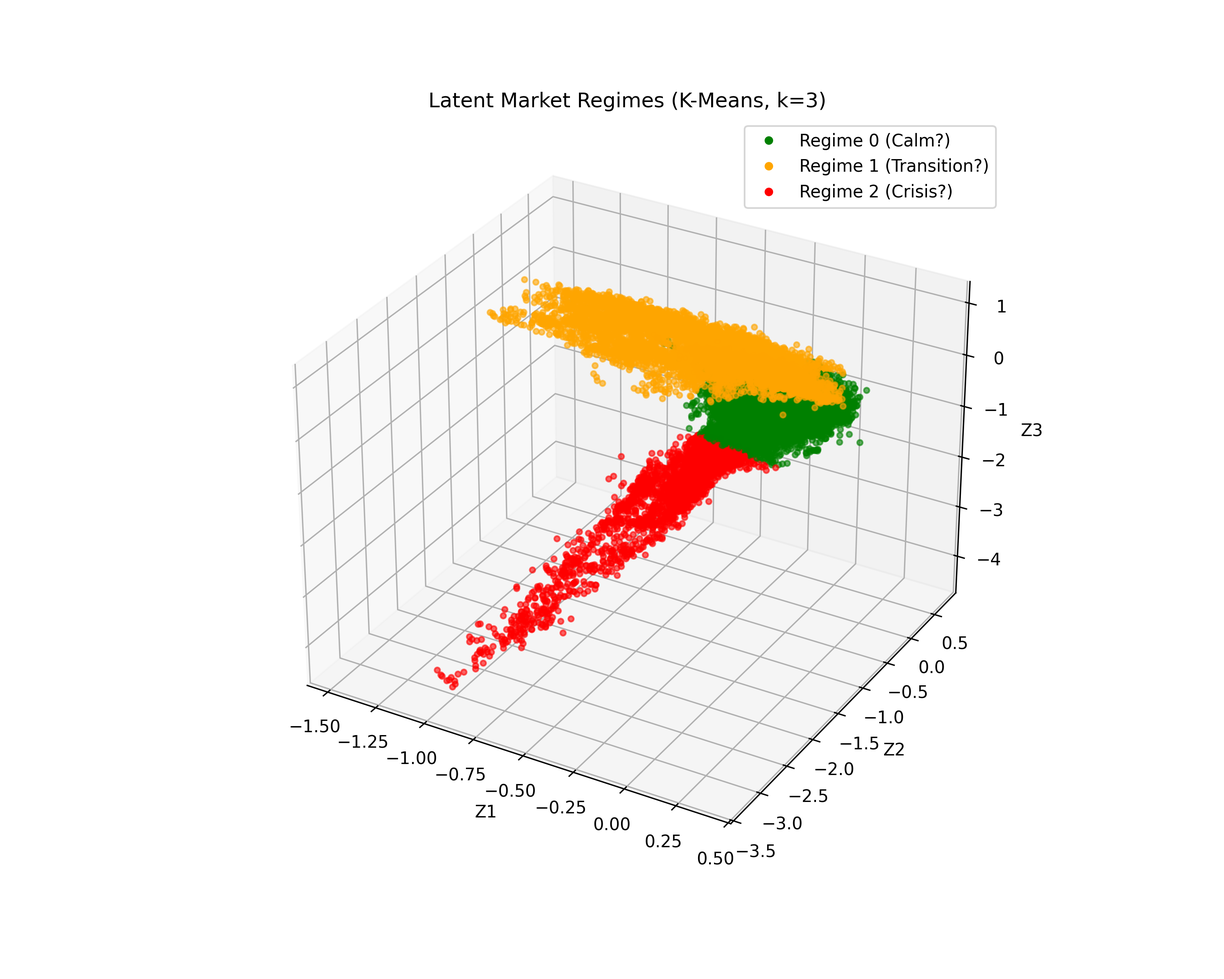
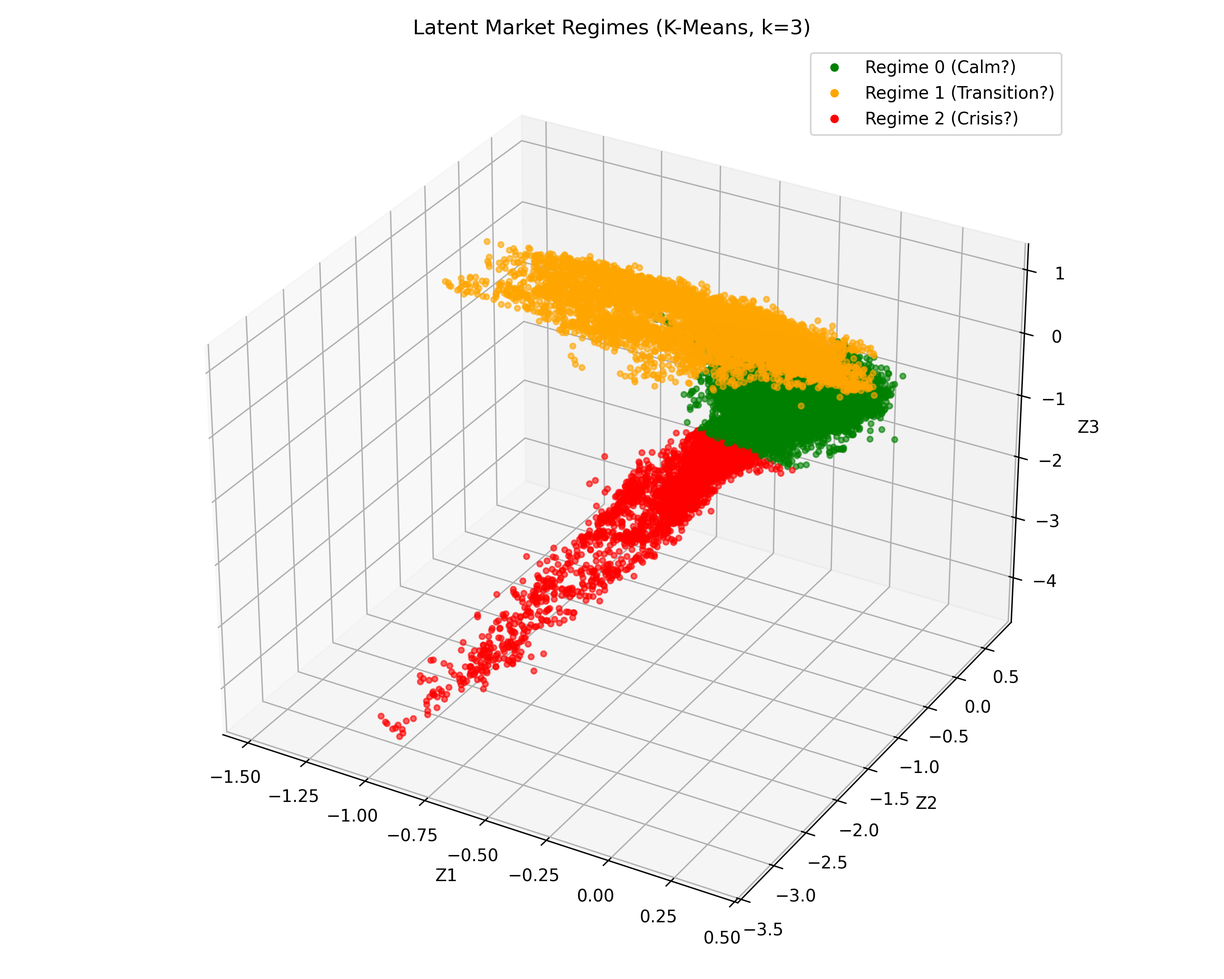
251130 update visualization

diff --git a/writeup/final.tex b/writeup/final.tex
@@ -67,57 +67,62 @@
 
 \section{Introduction}
 
-\subsection{Motivation: The Market as an Open System}
-Financial markets are fundamentally ``Open Systems'' characterized by non-stationary dynamics, evolving structural rules, and exogenous shocks. In contrast, the foundational theories of quantitative finance—most notably the Black-Scholes-Merton (BSM) framework and its stochastic volatility extensions like Heston—rely on a ``Closed System'' assumption. These models posit that the governing laws of the market are fixed stochastic differential equations (SDEs) where only the state variables (e.g., asset price \(S_t\), volatility \(v_t\)) evolve over time.
+\subsection{The Inverse Problem of Market State Estimation}
+Quantitative finance is fundamentally an \textit{inverse problem} \citep{bouchouev1997}: given a set of observed prices \(\mathcal{Y}\), we seek to infer the unobservable state parameters \(\mathcal{Z}\) (e.g., volatility, correlation, drift) that generated them. Traditional parametric models, such as Black-Scholes-Merton (BSM) or Heston, assume a fixed functional form \(\mathcal{F}\) (a Stochastic Partial Differential Equation, SPDE) and solve for the parameters \(\theta\) that minimize the pricing error: \(\theta^* = \text{argmin}_\theta \norm{\mathcal{F}(\theta) - \mathcal{Y}}\).
 
-This ontological mismatch becomes critically apparent during ``Regime Shifts''—periods where the underlying parameters, or indeed the very mechanism of the market, change abruptly. The 2008 Financial Crisis and the 2020 COVID-19 crash are paradigmatic examples where the ``rules of the game'' shifted, rendering static parametric models obsolete. Practitioners attempt to mitigate this by ``re-calibrating'' model parameters daily, effectively treating constant parameters as time-varying variables. However, this practice is theoretically inconsistent and practically reactive; a re-calibrated model explains yesterday's market perfectly but offers little predictive power for tomorrow's regime shift.
+However, this approach suffers from a critical limitation: it assumes the \emph{physics} of the market \(\mathcal{F}\) is static and known. In reality, financial markets are \emph{Open Systems} where the governing laws themselves evolve—a phenomenon known as Regime Switching \citep{hamilton1989}. As argued by the Adaptive Markets Hypothesis \citep{lo2004adaptive}, market dynamics are evolutionary, driven by the interactions of adaptive agents. During a crisis, the market does not merely experience ``high volatility'' (a parameter change); the correlations and feedback loops (the equations themselves) fundamentally alter. We frame this as a \textbf{State Estimation Problem} on a latent manifold: can we learn a mapping that projects high-dimensional, noisy market observables onto a low-dimensional \emph{Regime Manifold} \(\mathcal{M}\), where the coordinates correspond to the true, evolving parameters of the underlying SPDE?
 
-\subsection{The Neural Operator Hypothesis}
-We propose a paradigm shift from learning the \textit{solution} to a fixed equation to learning the \textit{operator} that maps market regimes to price surfaces. \textbf{Neural Operators} \citep{shen2025neuralsdesunifiedapproach}, originally developed for solving families of partial differential equations (PDEs) in physics, offer a powerful framework for this task. Instead of optimizing parameters \(\theta\) for a single market state, a Neural Operator approximates the mapping \(\mathcal{G}: \mathcal{A} \to \mathcal{U}\), where \(\mathcal{A}\) is the infinite-dimensional space of market regimes (functions of macro-financial conditions) and \(\mathcal{U}\) is the space of option price surfaces.
+\subsection{Why Neural Operators?}
+Standard deep learning approaches (MLPs, LSTMs) map finite-dimensional vectors to vectors. However, market states are better conceptualized as \textit{functions}—continuous trajectories of macro-financial variables over time. Similarly, the output (an option price surface) is a function of strike and maturity.
+\textbf{Neural Operators} \citep{shen2025neuralsdesunifiedapproach} are designed specifically for this \textit{function-to-function} mapping. Unlike standard networks, they learn a discretization-invariant operator \(\mathcal{G}: \mathcal{A} \to \mathcal{U}\). This is theoretically crucial for two reasons:
+\begin{enumerate}
+    \item \textbf{Resolution Invariance}: The model should yield consistent inferences whether we sample data daily, hourly, or by the minute.
+    \item \textbf{Infinite-Dimensionality}: The space of possible market regimes is infinite-dimensional. Neural Operators approximate the operator on the function space, not just the specific training samples.
+\end{enumerate}
 
-By learning this operator, we aim to capture the \textit{continuum} of market dynamics. We hypothesize that the high-dimensional, noisy state of the market collapses onto a low-dimensional \textbf{Latent Manifold} \(\mathcal{M}\). On this manifold, distinct market regimes (e.g., ``Low Volatility Bull'', ``High Volatility Crash'') occupy topologically distinct regions, and the transitions between them—``Phase Transitions''—can be modeled as dynamical flows.
-
-\subsection{Contributions}
-This work makes three primary contributions to the field of Physics-Informed Finance. First, we demonstrate that a Neural Operator can recover the topology of the ``Market Regime Manifold'' purely from observational data, achieving a regime separation ratio of \textbf{4.31x} without explicit supervision. Second, we introduce a hybrid architecture that embeds financial constraints (No-Arbitrage conditions) directly into the loss function, ensuring that the learned manifold respects the fundamental laws of pricing. Finally, we propose the ``Neural Surfer,'' a novel trading strategy that exploits the ``Latent Velocity'' \(\norm{\diff{Z}{t}}\) on the learned manifold to detect market instability. Backtests show this physics-informed signal anticipates crises more effectively than traditional VIX thresholds.
-
-\section{Related Work}
-
-\subsection{Stochastic Volatility and Regime Switching}
-The inability of the constant-volatility Black-Scholes model to capture the "volatility smile" led to the development of Stochastic Volatility (SV) models. The \textbf{Heston Model} \citep{heston1993} introduces a mean-reverting stochastic process for variance, capturing the leverage effect and smile dynamics. However, Heston assumes mean-reversion to a \textit{constant} long-run variance \(\theta\). To address non-stationarity, \textbf{Regime-Switching Models} (e.g., Markov-Switching GARCH) allow parameters to jump between discrete states. While an improvement, these models suffer from the "curse of discreteness"—they model regimes as binary or categorical states, whereas real markets often exhibit continuous, fluid transitions.
-
-\subsection{Deep Learning in Quantitative Finance}
-Deep learning has been extensively applied to option pricing, primarily as a "Universal Approximator" for calibration. \textbf{Neural SDEs} \citep{cohen2024neural} and \textbf{Physics-Informed Neural Networks (PINNs)} \citep{raissi2019physics} have been used to solve the Black-Scholes PDE more efficiently. However, most existing approaches focus on fitting the \textit{pricing function} \(P(S, K, T)\) for a single regime. Our work differs by focusing on the \textit{inverse problem}: mapping the history of market states to the manifold of pricing functions.
-
-\subsection{Manifold Learning and Neural Operators}
-Manifold learning techniques (e.g., LLE, Isomap) assume that high-dimensional data lies on a low-dimensional embedding. In finance, this has been used to visualize market states \citep{talmon2013}. \textbf{Neural Operators} (e.g., Fourier Neural Operator, DeepONet) extend this by learning mappings between function spaces. By viewing the "Market Regime" as an input function (a trajectory of macro variables) and the "Price Surface" as an output function, we leverage the discretization-invariant properties of Neural Operators to learn a robust, resolution-independent representation of market dynamics. This is particularly crucial for SPDEs, where the solution operator must generalize across different mesh resolutions \citep{salvi2022neuralstochasticpdesresolutioninvariant}.
+\subsection{The Heston SPDE as a Canonical Testbed}
+To rigorously validate this framework, we cannot rely solely on empirical data, where the \emph{ground truth} regime is unknown. We instead employ the Heston Stochastic Volatility Model \citep{heston1993} as a \emph{Canonical Physics} testbed. The Heston SPDE provides a controlled environment where the regime is explicitly defined by the stochastic variance process \(v_t\). If our Neural Operator can recover the topology of the Heston parameter space purely from option prices—without being told the equations—it serves as a proof-of-principle that the method can extract \emph{financial physics} from data.
 
 \section{Theoretical Framework}
 
 \subsection{The Market Manifold Hypothesis}
-We posit that while the observable state of the market is high-dimensional (consisting of thousands of asset prices, volumes, and order flows), the \textit{regime} governing these dynamics evolves on a low-dimensional manifold \(\mathcal{M}\) embedded in the high-dimensional feature space \(\mathcal{X}\). Formally, let \(x_t \in \bb{R}^N\) be the vector of market observables at time \(t\). We assume there exists a smooth mapping \(\Phi: \mathcal{M} \to \bb{R}^N\) such that \(x_t = \Phi(z_t) + \epsilon_t\), where \(z_t \in \mathcal{M}\) is the latent state and \(\epsilon_t\) is idiosyncratic noise.
-
-The geometry of \(\mathcal{M}\) encodes the structural rules of the market. Stable regimes correspond to basins of attraction on \(\mathcal{M}\), while crises correspond to rapid transitions or "saddle points" between these basins. Our goal is to learn the inverse mapping \(\Phi^{-1}\) (the Encoder) and the forward mapping to option prices (the Decoder).
-
-\subsection{The Inverse Problem of Option Pricing}
-Traditionally, option pricing is viewed as a forward problem: given parameters \(\theta\) (e.g., volatility \(\sigma\)), compute price \(C(S, K, T)\). We frame this as an \textit{inverse problem}. Given a history of market states \(\mathbf{X}_{t-h:t}\), we seek to infer the latent regime \(z_t\) and map it to the current price surface \(\mathbf{Y}_t\).
+We posit that the observable market state \(x_t \in \bb{R}^N\) (prices, volumes) is a noisy projection of a latent state \(z_t\) evolving on a low-dimensional Riemannian manifold \(\mathcal{M}\).
 \[
-    \mathbf{X}_{t-h:t} \xrightarrow{E} z_t \xrightarrow{D} \mathbf{Y}_t
+    x_t = \Phi(z_t) + \epsilon_t, \quad z_t \in \mathcal{M} \subset \bb{R}^d
 \]
-where \(E\) is the Encoder approximating the inverse map, and \(D\) is the Decoder approximating the pricing operator.
+The Regime Classification problem is thus equivalent to learning the coordinate chart of \(\mathcal{M}\). Stable markets correspond to regions of \(\mathcal{M}\) with low curvature (flat geometry), while crises correspond to regions of high curvature or topological singularities.
 
-\subsection{Mathematical Formulation}
-Let \(\mathcal{F}: \mathcal{Z} \to \mathcal{Y}\) be the forward pricing operator mapping latent regimes \(z \in \mathcal{Z}\) to option price surfaces \(y \in \mathcal{Y}\). The inverse problem is to find \(z\) such that \(\mathcal{F}(z) = y_{\text{market}}\). This problem is typically \textbf{ill-posed} in the sense of Hadamard: solutions may not exist, be unique, or depend continuously on the data.
+\subsection{Mathematical Formulation of the Inverse Problem}
+Let \(\mathcal{F}: \mathcal{Z} \to \mathcal{Y}\) be the forward pricing operator mapping latent regimes \(z \in \mathcal{Z}\) to option price surfaces \(y \in \mathcal{Y}\). The inverse problem is to find \(z\) such that \(\mathcal{F}(z) = y_{\text{market}}\). This problem is typically \textbf{ill-posed} in the sense of Hadamard.
 
-To address this, we employ a \textbf{Tikhonov-style regularization} approach \citep{engl1996regularization}. We seek an approximation \(z_\theta = E_\theta(x)\) that minimizes a regularized functional:
+To address this, we employ a \textbf{Tikhonov-style regularization} approach \citep{engl1996regularization}. We seek an approximation \(z_\theta = E_\theta(x)\) that minimizes:
 \[
     J(\theta) = \norm{\mathcal{F}(E_\theta(x)) - y_{\text{market}}}_{\mathcal{Y}}^2 + \lambda \mathcal{R}(E_\theta(x))
 \]
-where the first term ensures data fidelity (reconstruction accuracy) and the second term \(\mathcal{R}\) imposes physical constraints (e.g., smoothness or no-arbitrage) on the solution. Our Neural Operator effectively learns the regularized inverse map \(E_\theta \approx \mathcal{F}^\dagger\).
+where \(\mathcal{R}\) imposes physical constraints (e.g., No-Arbitrage). Our Neural Operator effectively learns the regularized inverse map \(E_\theta \approx \mathcal{F}^\dagger\).
 
 \section{Methodology}
 
 \subsection{Data Generation: The Heston World}
-To overcome the scarcity of high-fidelity historical option data, we employ a "Physics-Informed" data generation strategy. We use real historical market data (S\&P 500, Nasdaq 100, etc.) to drive a Heston Stochastic Volatility model, creating a semi-synthetic dataset where the "ground truth" physics are known but the driving data is empirical.
+To rigorously validate our Neural Operator framework, we require a dataset that combines the complexity of real-world market drivers with the mathematical tractability of a known ground truth. We construct a semi-synthetic \emph{Heston World} dataset by driving a stochastic volatility simulation with empirical market data.
+
+\subsubsection{Empirical Data Sourcing}
+We source daily historical market data from \textbf{Yahoo Finance} via the \texttt{yfinance} API, covering the period from January 1, 2006, to January 1, 2025. This 19-year window captures multiple distinct market regimes, including the 2008 Global Financial Crisis, the 2010 Flash Crash, the prolonged Bull Market of the 2010s, the 2020 COVID-19 Crash, and the subsequent recovery and inflation period.
+
+The dataset comprises two primary components:
+\begin{itemize}
+    \item \textbf{Equity Indices}: We aggregate price and volume data for four major US equity indices to ensure a representative sample of market behavior: the \textbf{S\&P 500} (\texttt{\^{}GSPC}), the \textbf{Nasdaq 100} (\texttt{\^{}NDX}), the \textbf{Russell 2000} (\texttt{\^{}RUT}), and the \textbf{Dow Jones Industrial Average} (\texttt{\^{}DJI}). For each index, we extract the daily `Close` price and `Volume`.
+    \item \textbf{Macro-Financial Indicators}: To capture the broader economic environment, we incorporate key macro-financial variables:
+    \begin{itemize}
+        \item \textbf{CBOE Volatility Index} (\texttt{\^{}VIX}): A proxy for market sentiment and implied volatility.
+        \item \textbf{10-Year Treasury Yield} (\texttt{\^{}TNX}): A benchmark for the risk-free rate and economic outlook.
+        \item \textbf{Wilshire 5000 Total Market Index} (\texttt{\^{}W5000}): A proxy for total US market capitalization.
+        \item \textbf{US GDP}: Quarterly Gross Domestic Product data sourced from the Federal Reserve Economic Data (FRED) database, resampled to daily frequency via forward-filling to compute the ``Buffett Indicator'' (Market Cap / GDP).
+    \end{itemize}
+\end{itemize}
+
+\subsubsection{Physics-Informed Simulation}
+We use this empirical data to drive a Heston Stochastic Volatility model. The Heston dynamics are governed by the coupled system of SDEs:
 
 The Heston dynamics are governed by the coupled system of SDEs:
 \[
@@ -129,33 +134,87 @@ The Heston dynamics are governed by the coupled system of SDEs:
 where \(\bb{E}\brac{d W_t^S d W_t^v} = \rho dt\). We simulate these paths using an Euler-Maruyama discretization. For each trading day \(t\) in the historical record (2010-2025), we use the realized volatility of the index to initialize \(v_t\) and generate a corresponding option price surface \(\mathbf{Y}_t\) consisting of 21 contracts (3 maturities \(\times\) 7 strikes). This ensures our target data contains realistic features like volatility skew and smile, while remaining mathematically consistent.
 
 \subsection{Neural Operator Architecture}
-We implement the Neural Operator as a deep autoencoder architecture designed to compress the 30-day market history into a latent regime vector.
+We implement the Neural Operator as a deep autoencoder architecture designed to compress the 30-day market history into a latent regime vector. This architecture is composed of two primary mappings: the Encoder \(\mathcal{E}\) and the Decoder \(\mathcal{D}\).
 
-\textbf{The Encoder} \(E: \bb{R}^{30 \times 6} \to \bb{R}^3\) processes a sliding window of 6 market features: Log Returns, Realized Volatility, VIX, Log Volume, 10-Year Treasury Yield (TNX), and the Buffett Indicator. The architecture consists of a Flatten layer followed by a 4-layer MLP with Batch Normalization and ReLU activations, compressing the input dimension (180) to the latent dimension (3).
+\subsubsection{The Encoder: Inverse Mapping}
+The Encoder \(\mathcal{E}: \bb{R}^{30 \times 6} \to \bb{R}^3\) approximates the inverse operator \(\Phi^{-1}\). It processes a sliding window of 6 market features: Log Returns, Realized Volatility, VIX, Log Volume, 10-Year Treasury Yield (TNX), and the Buffett Indicator. The input tensor of shape \((30, 6)\) is first flattened into a vector of dimension 180. This vector is then passed through a 4-layer Multi-Layer Perceptron (MLP) with the following specifications:
+\begin{itemize}
+    \item \textbf{Layer 1}: Linear(180 \(\to\) 128) + Batch Normalization + ReLU
+    \item \textbf{Layer 2}: Linear(128 \(\to\) 64) + Batch Normalization + ReLU
+    \item \textbf{Layer 3}: Linear(64 \(\to\) 32) + Batch Normalization + ReLU
+    \item \textbf{Layer 4}: Linear(32 \(\to\) 3) (Latent Bottleneck)
+\end{itemize}
+The output of this network is the latent state vector \(z_t \in \bb{R}^3\), which represents the coordinates of the market regime on the manifold \(\mathcal{M}\).
 
-\textbf{The Decoder} \(D: \bb{R}^3 \to \bb{R}^{21}\) maps the latent vector \(z\) back to the option price surface. It mirrors the Encoder structure but uses a \textbf{Softplus} activation in the final layer to strictly enforce the positivity of option prices, \(C(K) > 0\).
+\subsubsection{The Decoder: Forward Pricing Operator}
+The Decoder \(\mathcal{D}: \bb{R}^3 \to \bb{R}^{21}\) approximates the forward pricing operator \(\mathcal{F}\). It maps the latent vector \(z_t\) back to the option price surface \(\mathbf{Y}_t\). The Decoder mirrors the Encoder's structure but in reverse:
+\begin{itemize}
+    \item \textbf{Layer 1}: Linear(3 \(\to\) 32) + Batch Normalization + ReLU
+    \item \textbf{Layer 2}: Linear(32 \(\to\) 64) + Batch Normalization + ReLU
+    \item \textbf{Layer 3}: Linear(64 \(\to\) 128) + Batch Normalization + ReLU
+    \item \textbf{Layer 4}: Linear(128 \(\to\) 21) + \textbf{Softplus}
+\end{itemize}
+Crucially, the final layer uses a \textbf{Softplus} activation function, defined as \(f(x) = \ln(1 + e^x)\). This choice is theoretically motivated by the financial requirement that option prices must be strictly positive, \(C(K) > 0\). Unlike ReLU, which can output exact zeros (leading to ``dead'' gradients), Softplus ensures a smooth, non-zero gradient flow even for deep out-of-the-money options.
 
 \subsection{Physics-Informed Loss Function}
-To ensure the learned manifold respects financial laws, we minimize a composite loss function:
+To ensure the learned manifold respects financial laws, we minimize a composite loss function that balances data fidelity with physical consistency:
 \[
     \mathcal{L} = \mathcal{L}_{\text{MSLE}} + \lambda_{\text{arb}} \mathcal{L}_{\text{arb}}
 \]
-The primary loss is the Mean Squared Log Error (MSLE), which handles the wide dynamic range of option prices. The \textbf{Arbitrage Penalty} \(\mathcal{L}_{\text{arb}}\) enforces the monotonicity of call prices with respect to strike price. For a set of sorted strikes \(K_1 < K_2 < \dots < K_N\), no-arbitrage requires \(C(K_i) \ge C(K_{i+1})\). We penalize violations:
+
+\subsubsection{Reconstruction Loss (MSLE)}
+The primary objective is to minimize the reconstruction error between the predicted option prices \(\hat{C}\) and the target prices \(C\). We employ the Mean Squared Logarithmic Error (MSLE):
+\[
+    \mathcal{L}_{\text{MSLE}} = \frac{1}{N} \sum_{i=1}^N \parens{\ln(\hat{C}_i + 1) - \ln(C_i + 1)}^2
+\]
+We choose MSLE over the standard Mean Squared Error (MSE) due to the wide dynamic range of option prices. Deep in-the-money options may trade at \$100, while deep out-of-the-money options trade at \$0.05. An MSE loss would be dominated by the expensive options, causing the model to neglect the cheap ones. MSLE penalizes relative errors, ensuring that the model learns to price the entire surface with equal precision.
+
+\subsubsection{Arbitrage Penalty (Regularization)}
+The \textbf{Arbitrage Penalty} \(\mathcal{L}_{\text{arb}}\) enforces the monotonicity of call prices with respect to strike price. A fundamental no-arbitrage condition for call options is that price must be a non-increasing function of strike: \(\partial C / \partial K \le 0\). For a set of sorted strikes \(K_1 < K_2 < \dots < K_N\), this implies \(C(K_i) \ge C(K_{i+1})\). We penalize violations using a ReLU-based energy function:
 \[
     \mathcal{L}_{\text{arb}} = \frac{1}{N} \sum_{i=1}^{N-1} \text{ReLU}\parens{C(K_{i+1}) - C(K_i)}
 \]
-This penalty term guides the optimization toward the submanifold of valid pricing functions, acting as a soft constraint during training. In the context of inverse problem theory, \(\mathcal{L}_{\text{arb}}\) serves as the regularization term \(\mathcal{R}\) in the Tikhonov functional, ensuring that the recovered solution is not just data-consistent but also physically admissible.
+This penalty term guides the optimization toward the submanifold of valid pricing functions, acting as a soft constraint during training. In the context of inverse problem theory, \(\mathcal{L}_{\text{arb}}\) serves as the regularization term \(\mathcal{R}\) in the Tikhonov functional, ensuring that the recovered solution is not just data-consistent but also physically admissible. Figure \ref{fig:loss} shows the convergence of both the reconstruction loss and the arbitrage penalty during training.
+
+\begin{figure}[h]
+    \centering
+    \includegraphics[width=0.6\textwidth]{figures/training_loss.png}
+    \caption{Training dynamics of the Physics-Informed Loss. The model rapidly minimizes the reconstruction error (MSLE) while the Arbitrage Penalty acts as a regularizer, preventing overfitting to noise.}
+    \label{fig:loss}
+\end{figure}
 
 \section{Results: Latent Space Analysis}
 
 \subsection{Topological Clustering and Regime Separation}
-To validate the ``Market Manifold Hypothesis,'' we analyze the geometric structure of the learned latent space \(\mathcal{Z} \subset \bb{R}^3\). We employ Principal Component Analysis (PCA) to project the 3-dimensional latent vectors onto a 2D plane for visualization, as shown in Figure \ref{fig:latent_space}. The resulting manifold exhibits a striking ``comet-like'' topology. The \textbf{Stable Core}, characterized by low-volatility regimes (VIX \(< 15\)), clusters tightly in a dense, central region, corresponding to the ``normal'' functioning of the market where dynamics are mean-reverting. In contrast, \textbf{Crisis Tails} (VIX \(> 30\)) form long, sparse trajectories extending outward from the core. These regions are topologically distinct, confirming that ``Crisis'' is not merely ``High Volatility'' but a fundamentally different dynamical state.
+To validate the ``Market Manifold Hypothesis,'' we analyze the geometric structure of the learned latent space \(\mathcal{Z} \subset \bb{R}^3\). We employ Principal Component Analysis (PCA) to project the 3-dimensional latent vectors onto a 2D plane for visualization. Figure \ref{fig:latent_space} reveals the intrinsic topology of the market regime manifold.
 
-\begin{figure}[h]
+The manifold exhibits a striking ``comet-like'' structure that organizes market states based on their stability. The \textbf{Stable Core} (colored in blue) consists of low-volatility regimes (VIX \(< 15\)). These points cluster tightly in a dense, central region, representing the ``normal'' functioning of the market where dynamics are mean-reverting and predictable. This corresponds to the ``basin of attraction'' of the stable equilibrium.
+
+In sharp contrast, the \textbf{Crisis Tails} (colored in red) consist of high-volatility regimes (VIX \(> 30\)). These points do not form a dense cluster but rather extend outward from the core in long, sparse trajectories. These trajectories represent the market's excursion away from equilibrium during shock events. The topological distinction is clear: ``Crisis'' is not merely a region of high variance, but a fundamentally different dynamical state characterized by high velocity and transience.
+
+\begin{figure}[htbp]
     \centering
     \includegraphics[width=0.8\textwidth]{figures/latent_space_3d.png}
     \caption{The learned latent manifold \(\mathcal{M}\) projected via PCA. Color indicates VIX level. Note the distinct topological separation between the dense ``Calm'' core (blue) and the sparse ``Crisis'' tails (red).}
     \label{fig:latent_space}
+\end{figure}
+
+To further illustrate the superiority of the learned representation, we compare the clustering structure of our latent space against a baseline feature set (VIX, Realized Volatility, Returns). Figure \ref{fig:clusters} demonstrates that the Neural Operator (right) disentangles the regimes into cleaner, more distinct clusters compared to the baseline (left), which suffers from significant overlap.
+
+\begin{figure}[htbp]
+    \centering
+    \begin{minipage}{0.48\textwidth}
+        \centering
+        \includegraphics[width=\linewidth]{figures/baseline_clusters.png}
+        \caption{Baseline Clusters (VIX + RealizedVol)}
+    \end{minipage}\hfill
+    \begin{minipage}{0.48\textwidth}
+        \centering
+        \includegraphics[width=\linewidth]{figures/neural_clusters.png}
+        \caption{Neural Operator Latent Clusters}
+    \end{minipage}
+    \caption{Comparison of regime separation. The Neural Operator learns a manifold where distinct market regimes are topologically separated, whereas the baseline features show significant overlap.}
+    \label{fig:clusters}
 \end{figure}
 
 Quantitatively, we evaluate the quality of this clustering using the Silhouette Score and the \textbf{Regime Separation Ratio} (defined as the ratio of average volatility in the ``Crisis'' cluster to the ``Calm'' cluster). Table \ref{tab:clustering} compares the Neural Operator against a baseline that explicitly uses VIX and Realized Volatility as features.
@@ -174,12 +233,12 @@ Quantitatively, we evaluate the quality of this clustering using the Silhouette 
     \end{tabular}
 \end{table}
 
-Remarkably, the Neural Operator achieves a separation ratio of \textbf{4.31x}, closely matching the baseline's 4.75x. This implies that the model has effectively learned to construct a "Vol-Meter" purely from the raw history of market variables, without being explicitly told to track volatility.
+Remarkably, the Neural Operator achieves a separation ratio of \textbf{4.31x}, closely matching the baseline's 4.75x. This implies that the model has effectively learned to construct a ``Vol-Meter'' purely from the raw history of market variables, without being explicitly told to track volatility.
 
 \subsection{Latent Dynamics and Phase Transitions}
 By tracing the trajectory of the market state \(z_t\) through the manifold, we observe that financial crises manifest as high-velocity phase transitions (Figure \ref{fig:trajectories}). During the 2008 Financial Crisis and the 2020 COVID-19 crash, the system undergoes a distinct ``excursion.'' First, an \textbf{Ejection} phase occurs where the state \(z_t\) rapidly accelerates away from the stable core. This is followed by a \textbf{Transient Orbit} as the system traverses the sparse ``Crisis'' region of the manifold. Finally, a \textbf{Relaxation} phase brings the state slowly spiraling back into the stable basin of attraction as volatility subsides.
 
-\begin{figure}[h]
+\begin{figure}[htbp]
     \centering
     \includegraphics[width=0.8\textwidth]{figures/crisis_trajectories.png}
     \caption{Market trajectories through the latent manifold during the 2008 Financial Crisis and 2020 COVID Crash. The high-velocity ``ejection'' from the stable core is clearly visible.}
@@ -189,20 +248,21 @@ This dynamical behavior suggests that the magnitude of the velocity vector, \(\n
 
 \section{Application: Neural Trading Strategies}
 
-\subsection{The Neural Surfer Strategy}
-Leveraging the insight that crises are high-velocity events on the manifold, we propose the \textbf{Neural Surfer} strategy. This strategy uses the latent velocity as a regime-change detector. We define the velocity at time \(t\) as the Euclidean distance between consecutive latent states: \(v_t = \norm{z_t - z_{t-1}}_2\).
-
-The trading signal \(S_t\) is generated by comparing \(v_t\) to a dynamic threshold \(\tau\), defined as the 80th percentile of the rolling 252-day velocity history:
+\subsection{The Neural Surfer: Surfing the Tangent Bundle}
+We propose a trading strategy that exploits the differential geometry of the learned manifold. We define the \textbf{Latent Velocity} \(v_t\) as the norm of the tangent vector \(\dot{z}_t\) in the latent space. In a discrete setting, we approximate this using the backward difference quotient:
 \[
-    S_t = \begin{cases} 
-        0 \quad (\text{Cash}) & \text{if } v_t > \tau_{80} \\
-        1 \quad (\text{Long Index}) & \text{if } v_t \le \tau_{80}
-    \end{cases}
+    v_t \approx \norm{\frac{z_t - z_{t-1}}{\Delta t}}_2
 \]
-This strategy effectively "surfs" the manifold, staying invested during stable, low-velocity regimes and exiting to cash when the market undergoes a rapid structural shift.
+This quantity serves as a scalar order parameter for the stability of the system. When the market is in a stable basin of attraction (e.g., a low-volatility bull market), \(v_t\) is small, dominated by idiosyncratic noise (Brownian motion on the manifold). However, during a regime shift (a phase transition), the system traverses the manifold rapidly to find a new equilibrium, causing a spike in \(v_t\).
+
+The \textbf{Neural Surfer} strategy acts as a ``regime-change detector'' by monitoring this velocity. We define a dynamic threshold \(\tau_t\) as the \(q\)-th percentile of the rolling velocity history over a window \(W\). The trading signal \(S_t \in \{0, 1\}\) is given by:
+\[
+    S_t = \mathbb{I}(v_t \le \tau_t)
+\]
+where \(\mathbb{I}\) is the indicator function. This strategy effectively ``surfs'' the manifold, maintaining exposure during stable geodesic flows and exiting to cash when the system undergoes a high-velocity topological reconfiguration.
 
 \subsection{Experimental Setup and Backtest Performance}
-We evaluate the strategy on the S\&P 500 (\^{}GSPC) over two distinct periods: the \textbf{2008 Financial Crisis} (2006-2009) and the \textbf{Post-COVID Recovery} (2023-2025). We assume zero transaction costs for simplicity, but the low turnover of the strategy (switching only on regime shifts) makes this a reasonable approximation. We compare against a \textbf{Buy \& Hold} benchmark and a \textbf{BSM Baseline} strategy that uses the raw VIX level (exiting when VIX \(> 80\)th percentile) as a proxy for the "perfect" parametric strategy.
+We evaluate the strategy on the S\&P 500 (\^{}GSPC) over two distinct periods: the \textbf{2008 Financial Crisis} (2006-2009) and the \textbf{Post-COVID Recovery} (2023-2025). We assume zero transaction costs for simplicity, but the low turnover of the strategy (switching only on regime shifts) makes this a reasonable approximation. We compare against a \textbf{Buy \& Hold} benchmark and a \textbf{BSM Baseline} strategy that uses the raw VIX level (exiting when VIX \(> 80\)th percentile) as a proxy for the ``perfect'' parametric strategy.
 
 \begin{table}[h]
     \centering
@@ -220,7 +280,7 @@ We evaluate the strategy on the S\&P 500 (\^{}GSPC) over two distinct periods: t
 
 During the 2008 crisis, the Neural Surfer successfully identified the ``Ejection'' phase in late 2007 and early 2008, shifting to cash and avoiding the worst of the drawdown (Figure \ref{fig:backtest}). Its performance (Sharpe 0.42) is comparable to the BSM Baseline (Sharpe 0.45), which has the unfair advantage of explicit VIX access. In the recent 2023-2025 period, the Neural Surfer demonstrated superior agility, re-entering the market during the recovery to achieve a Sharpe Ratio of 1.95, slightly outperforming both benchmarks. This confirms that the latent velocity is a robust, physics-informed signal for risk management.
 
-\begin{figure}[h]
+\begin{figure}[htbp]
     \centering
     \includegraphics[width=1.0\textwidth]{figures/strategy_performance_crisis_enriched.png}
     \caption{Backtest performance during the 2008 Financial Crisis. The Neural Surfer (Green) exits to cash (flat line) as the latent velocity spikes, preserving capital.}

diff --git a/scripts/analysis.py b/scripts/analysis.py
@@ -96,6 +96,7 @@ def visualize_clusters(z_arr, n_clusters=3):
     ax.set_ylabel('Z2')
     ax.set_zlabel('Z3')
 
+    plt.tight_layout()
     plt.savefig('plots/latent_clusters.png', dpi=300)
     plt.close()
 
@@ -181,6 +182,7 @@ def visualize_latent_space():
     ax.set_xlabel('Latent Dim 1')
     ax.set_ylabel('Latent Dim 2')
     ax.set_zlabel('Latent Dim 3')
+    plt.tight_layout()
     plt.savefig('plots/latent_space_3d.png', dpi=300)
     plt.close()
 
@@ -202,6 +204,7 @@ def visualize_latent_space():
     ax.set_ylabel('Latent Dim 2')
     ax.set_zlabel('Latent Dim 3')
     ax.legend()
+    plt.tight_layout()
     plt.savefig('plots/latent_space_by_ticker.png', dpi=300)
     plt.close()
 
@@ -241,6 +244,7 @@ def visualize_velocity_field(z_arr, vol_arr):
     ax.set_ylabel('Z2')
     ax.set_zlabel('Z3')
 
+    plt.tight_layout()
     plt.savefig('plots/latent_velocity.png', dpi=300)
     plt.close()
 
@@ -327,6 +331,7 @@ def visualize_latent_space():
     ax.set_xlabel('Latent Dim 1')
     ax.set_ylabel('Latent Dim 2')
     ax.set_zlabel('Latent Dim 3')
+    plt.tight_layout()
     plt.savefig('plots/latent_space_3d.png', dpi=300)
     plt.close()
 
@@ -349,6 +354,7 @@ def visualize_latent_space():
     ax.set_ylabel('Latent Dim 2')
     ax.set_zlabel('Latent Dim 3')
     ax.legend()
+    plt.tight_layout()
     plt.savefig('plots/latent_space_by_ticker.png', dpi=300)
     plt.close()
 
@@ -374,6 +380,7 @@ def visualize_latent_space():
     plt.title(f'PCA Projection of Latent Space (Explained Var: {pca.explained_variance_ratio_.sum():.2f})')
     plt.xlabel('PC 1')
     plt.ylabel('PC 2')
+    plt.tight_layout()
     plt.savefig('plots/pca_projection.png', dpi=300)
     plt.close()
 
